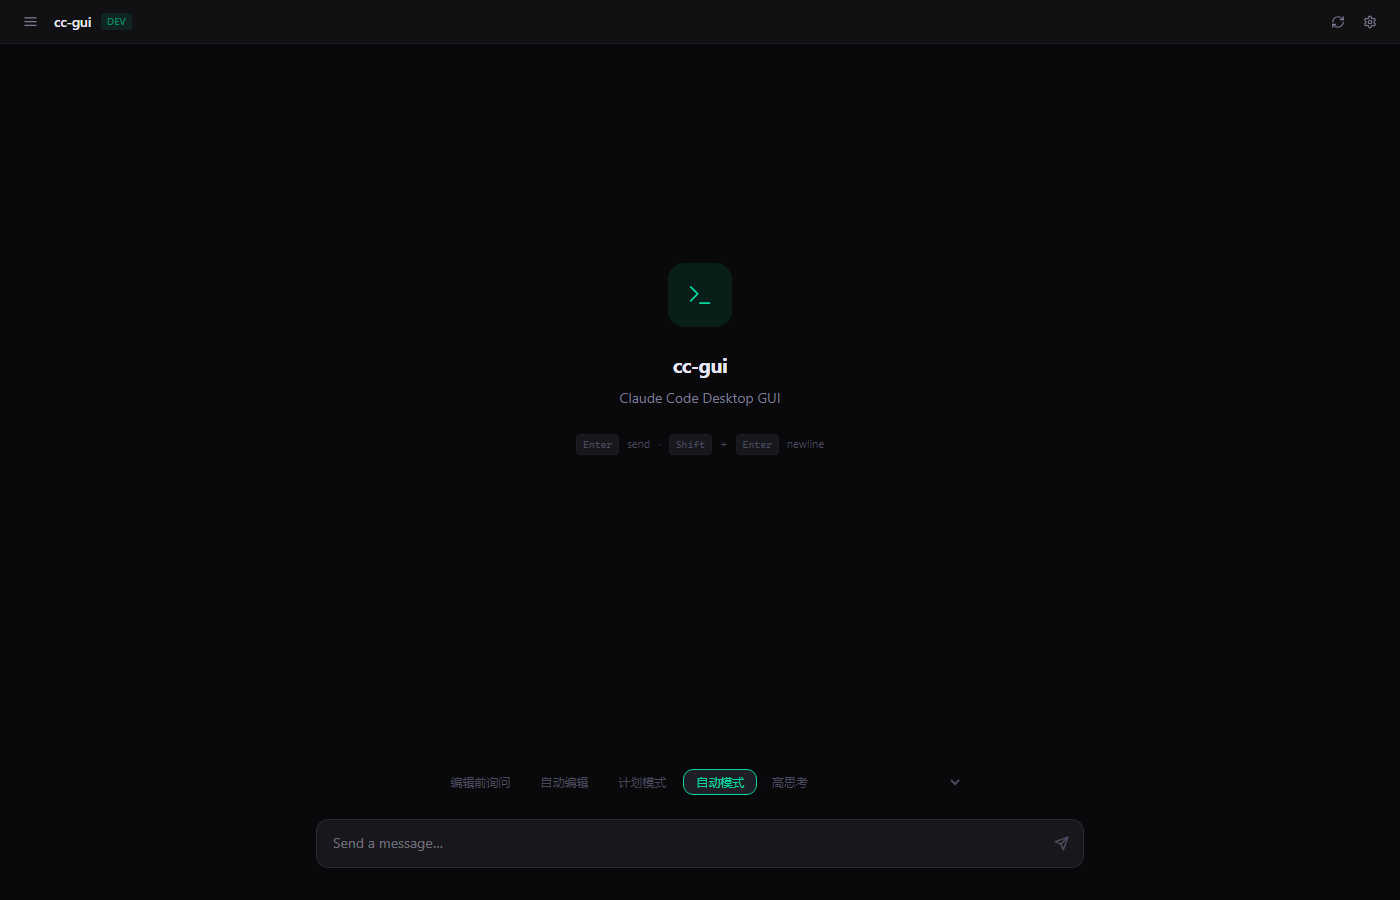
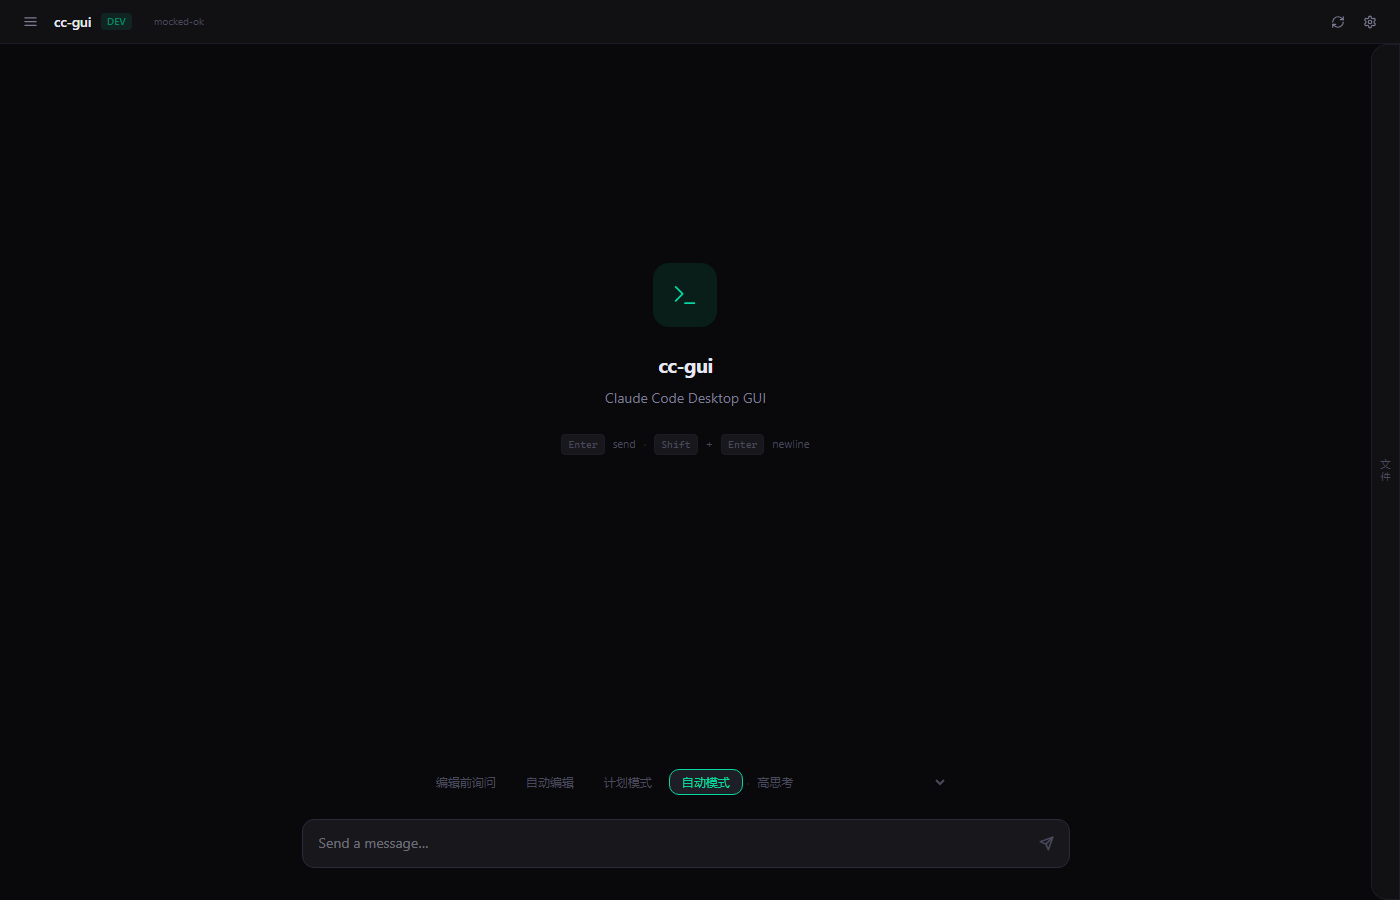
Remove unreferenced screenshots, add test artifacts to .gitignore

diff --git a/src/components/files/FilePanel.vue b/src/components/files/FilePanel.vue
@@ -1,129 +1,123 @@
 <script setup lang="ts">
 import { ref, onMounted } from "vue";
+import { useI18n } from "vue-i18n";
 import { listDir, readFileContent, getWorkspaceRoot, type FileEntry } from "@/lib/tauri-bridge";
 import FileTree from "./FileTree.vue";
 import FilePreview from "./FilePreview.vue";
 
-interface FileEntry {
-  name: string;
-  path: string;
-  is_dir: boolean;
-  size: number;
-}
-
+const { t } = useI18n();
 const collapsed = ref(true);
 const rootPath = ref("");
 const files = ref<FileEntry[]>([]);
 const selectedFile = ref<string | null>(null);
 const previewContent = ref("");
-const previewLoading = ref(false);
 
 onMounted(async () => {
   try {
-    rootPath.value = await invoke<string>("get_workspace_root");
-    files.value = await invoke<FileEntry[]>("list_dir", { path: rootPath.value });
-  } catch {
-    rootPath.value = "";
-  }
+    rootPath.value = await getWorkspaceRoot();
+    files.value = await listDir(rootPath.value);
+  } catch { rootPath.value = ""; }
 });
 
 async function navigateTo(path: string) {
-  try {
-    files.value = await invoke<FileEntry[]>("list_dir", { path });
-  } catch {
-    // Permission denied or not a directory
-  }
+  rootPath.value = path;
+  try { files.value = await listDir(path); } catch {}
 }
 
 async function openFile(entry: FileEntry) {
-  if (entry.is_dir) {
-    navigateTo(entry.path);
-  } else {
-    selectedFile.value = entry.name;
-    previewLoading.value = true;
-    try {
-      previewContent.value = await invoke<string>("read_file_content", { path: entry.path });
-    } catch (e) {
-      previewContent.value = `Error: ${e}`;
-    } finally {
-      previewLoading.value = false;
-    }
-  }
+  if (entry.is_dir) { navigateTo(entry.path); return; }
+  selectedFile.value = entry.name;
+  try { previewContent.value = await readFileContent(entry.path); }
+  catch (e) { previewContent.value = `Error: ${e}`; }
 }
 
-function toggle() {
-  collapsed.value = !collapsed.value;
-}
+// Split path into clickable segments for breadcrumb
+import { computed } from "vue";
+
+const pathSegments = computed(() => {
+  const path = rootPath.value.replace(/[\\/]$/, "");
+  const parts = path.split(/[\\/]/).filter(Boolean);
+  const segments: { label: string; fullPath: string }[] = [];
+  for (let i = 0; i < parts.length; i++) {
+    const full = parts.slice(0, i + 1).join("\\");
+    segments.push({ label: parts[i], fullPath: full + (i === 0 ? "\\" : "") });
+  }
+  return segments;
+});
 
 function goUp() {
-  const parent = rootPath.value.replace(/[\\/][^\\/]+$/, "");
-  if (parent && parent !== rootPath.value) {
-    rootPath.value = parent;
-    navigateTo(parent);
-  }
+  if (pathSegments.value.length <= 1) return;
+  const parent = pathSegments.value[pathSegments.value.length - 2];
+  navigateTo(parent.fullPath);
 }
 </script>
 
 <template>
-  <aside
-    :class="['flex flex-col border-l overflow-hidden transition-all duration-200 shrink-0',
-      collapsed ? 'w-0 border-transparent' : 'w-72']"
-    :style="{ background: 'var(--bg-surface)', borderColor: 'var(--border-dim)' }"
-  >
-    <div v-if="!collapsed" class="flex flex-col h-full">
-      <!-- Header -->
-      <div
-        class="flex items-center justify-between h-8 px-3 shrink-0 text-[11px] font-medium select-none"
-        :style="{ color: 'var(--text-secondary)', borderBottom: '1px solid var(--border-dim)' }"
+  <div class="flex shrink-0 overflow-hidden">
+    <!-- Drawer pull-tab (always visible, acts as open/close handle) -->
+    <button
+      @click="collapsed = !collapsed"
+      class="shrink-0 w-7 flex items-center justify-center rounded-l-lg cursor-pointer select-none transition-all duration-200"
+      :style="{
+        background: collapsed ? 'var(--bg-surface)' : 'var(--bg-elevated)',
+        color: 'var(--text-muted)',
+        border: '1px solid var(--border-dim)',
+        borderRight: 'none',
+      }"
+      :title="collapsed ? t('file.title') : ''"
+    >
+      <span
+        class="transition-transform duration-200"
+        :style="{ writingMode: 'vertical-rl', fontSize: '10px', letterSpacing: '3px', transform: collapsed ? '' : 'rotate(180deg)' }"
       >
-        <span>Files</span>
-        <button @click="toggle" class="hover:text-[var(--accent)] transition-colors text-xs">&times;</button>
-      </div>
+        {{ collapsed ? t('file.title') : '◀' }}
+      </span>
+    </button>
 
-      <!-- Breadcrumb -->
-      <div class="flex items-center gap-1 px-2 py-1 text-[10px] shrink-0" style="color:var(--text-muted)">
-        <button @click="goUp" class="hover:text-[var(--accent)] transition-colors" title="Up">&larr;</button>
-        <span class="truncate">{{ rootPath || '/' }}</span>
-      </div>
-
-      <!-- File tree -->
-      <div class="flex-1 overflow-y-auto px-1 py-0.5">
-        <FileTree
-          :entries="files"
-          :selected="selectedFile"
-          @select="openFile"
-          @navigate="navigateTo"
-        />
-      </div>
-
-      <!-- Preview -->
-      <div
-        v-if="selectedFile && previewContent"
-        class="border-t shrink-0"
-        :style="{ borderColor: 'var(--border-dim)' }"
-      >
-        <div
-          class="flex items-center justify-between px-3 h-7 text-[10px]"
-          :style="{ color: 'var(--text-muted)', borderBottom: '1px solid var(--border-dim)' }"
-        >
-          <span class="truncate">{{ selectedFile }}</span>
-          <button @click="selectedFile = null; previewContent = ''" class="hover:text-[var(--accent)]">&times;</button>
+    <!-- Panel body -->
+    <aside
+      :class="['flex flex-col border-l overflow-hidden transition-all duration-200',
+        collapsed ? 'w-0 border-transparent' : 'w-72']"
+      :style="{ background: 'var(--bg-surface)', borderColor: 'var(--border-dim)' }"
+    >
+      <div v-if="!collapsed" class="flex flex-col h-full">
+        <!-- Breadcrumb -->
+        <div class="flex items-center gap-0.5 px-2 py-1.5 text-[11px] shrink-0 overflow-x-auto"
+          :style="{ color: 'var(--text-muted)', borderBottom: '1px solid var(--border-dim)' }">
+          <button @click="goUp" class="hover:text-[var(--accent)] transition-colors shrink-0 mr-0.5" title="Up">
+            <svg width="13" height="13" viewBox="0 0 24 24" fill="none" stroke="currentColor" stroke-width="2"><path d="M15 18l-6-6 6-6"/></svg>
+          </button>
+          <template v-for="(seg, i) in pathSegments" :key="seg.fullPath">
+            <span class="text-[10px]" :style="{ color: 'var(--border-bright)' }" v-if="i > 0">›</span>
+            <button
+              @click="navigateTo(seg.fullPath)"
+              class="hover:text-[var(--accent)] transition-colors truncate max-w-[120px] shrink-0"
+              :class="{ 'font-medium': i === pathSegments.length - 1 }"
+              :style="{ color: i === pathSegments.length - 1 ? 'var(--text-primary)' : 'var(--text-muted)' }"
+            >
+              {{ seg.label }}
+            </button>
+          </template>
         </div>
-        <div class="max-h-64 overflow-auto">
-          <FilePreview :content="previewContent" :filename="selectedFile" />
+
+        <!-- File tree -->
+        <div class="flex-1 overflow-y-auto px-1 py-0.5">
+          <FileTree :entries="files" :selected="selectedFile" @select="openFile" @navigate="navigateTo" />
+        </div>
+
+        <!-- Preview -->
+        <div v-if="selectedFile && previewContent" class="border-t shrink-0"
+          :style="{ borderColor: 'var(--border-dim)' }">
+          <div class="flex items-center justify-between px-3 h-7 text-[10px]"
+            :style="{ color: 'var(--text-muted)', borderBottom: '1px solid var(--border-dim)' }">
+            <span class="truncate">{{ selectedFile }}</span>
+            <button @click="selectedFile = null; previewContent = ''" class="hover:text-[var(--accent)]">&times;</button>
+          </div>
+          <div class="max-h-64 overflow-auto">
+            <FilePreview :content="previewContent" :filename="selectedFile" />
+          </div>
         </div>
       </div>
-    </div>
-  </aside>
-
-  <!-- Collapse toggle (visible when collapsed) -->
-  <button
-    v-if="collapsed"
-    @click="toggle"
-    class="absolute right-0 top-1/2 -translate-y-1/2 w-6 h-12 rounded-l-md flex items-center justify-center text-[10px] transition-colors z-10"
-    :style="{ background: 'var(--bg-surface)', color: 'var(--text-muted)', border: '1px solid var(--border-dim)' }"
-    title="Show files"
-  >
-    &lt;
-  </button>
+    </aside>
+  </div>
 </template>

diff --git a/src/components/layout/AppShell.vue b/src/components/layout/AppShell.vue
@@ -1,12 +1,18 @@
 <script setup lang="ts">
-import { ref } from "vue";
+import { ref, onMounted } from "vue";
 import { useRouter, useRoute } from "vue-router";
 import SessionSidebar from "@/components/session/SessionSidebar.vue";
 import FilePanel from "@/components/files/FilePanel.vue";
+import { getWorkspaceRoot } from "@/lib/tauri-bridge";
 
 const router = useRouter();
 const route = useRoute();
 const drawerOpen = ref(false);
+const cwd = ref("");
+
+onMounted(async () => {
+  try { cwd.value = await getWorkspaceRoot(); } catch {}
+});
 
 function isActive(path: string): boolean {
   return route.path === path;
@@ -21,10 +27,11 @@ function isActive(path: string): boolean {
       style="background:var(--bg-surface); border-bottom:1px solid var(--border-dim)"
     >
       <!-- Logo group -->
-      <div class="flex items-center gap-2.5 flex-1">
+      <!-- Logo + CWD — left aligned, baseline aligned -->
+      <div class="flex items-baseline gap-2.5 flex-1 min-w-0">
         <button
           @click="drawerOpen = !drawerOpen"
-          class="w-7 h-7 flex items-center justify-center rounded-md transition-colors"
+          class="w-7 h-7 flex items-center justify-center rounded-md transition-colors shrink-0 translate-y-0.5"
           :style="{ background: drawerOpen ? 'var(--bg-active)' : 'transparent', color: 'var(--text-secondary)' }"
           :class="drawerOpen ? '' : 'hover:bg-[var(--bg-hover)]'"
           title="Toggle sidebar"
@@ -34,15 +41,16 @@ function isActive(path: string): boolean {
           </svg>
         </button>
 
-        <span
-          class="text-sm font-semibold tracking-tight"
-          style="color:var(--text-bright)"
-        >cc-gui</span>
+        <span class="text-sm font-semibold tracking-tight leading-none" style="color:var(--text-bright)">cc-gui</span>
+        <span class="text-[10px] font-medium px-1.5 py-px rounded leading-none" style="background:var(--accent-glow); color:var(--accent-dim)">DEV</span>
 
+        <!-- CWD — left aligned after logo -->
         <span
-          class="text-[10px] font-medium px-1.5 py-px rounded"
-          style="background:var(--accent-glow); color:var(--accent-dim)"
-        >DEV</span>
+          v-if="cwd"
+          class="text-[10px] font-mono truncate ml-1 px-2 py-0.5 rounded leading-none"
+          :style="{ background: 'var(--bg-root)', color: 'var(--accent)', border: '1px solid var(--border-dim)' }"
+          :title="cwd"
+        >{{ cwd }}</span>
       </div>
 
       <!-- Actions group -->

diff --git a/src/components/chat/ChatPanel.vue b/src/components/chat/ChatPanel.vue
@@ -105,7 +105,7 @@ watch(() => chat.currentAssistantMsg?.toolUses.length, () => scrollToBottom());
     </div>
 
     <!-- Messages -->
-    <div ref="scrollContainer" class="flex-1 overflow-y-auto" @scroll="onScrollThrottled">
+    <div ref="scrollContainer" :class="['flex-1', chat.messages.length > 0 ? 'overflow-y-auto' : '']" @scroll="onScrollThrottled">
       <!-- Welcome -->
       <div v-if="chat.messages.length === 0" class="flex items-center justify-center h-full">
         <div class="text-center max-w-sm px-6 pb-24">